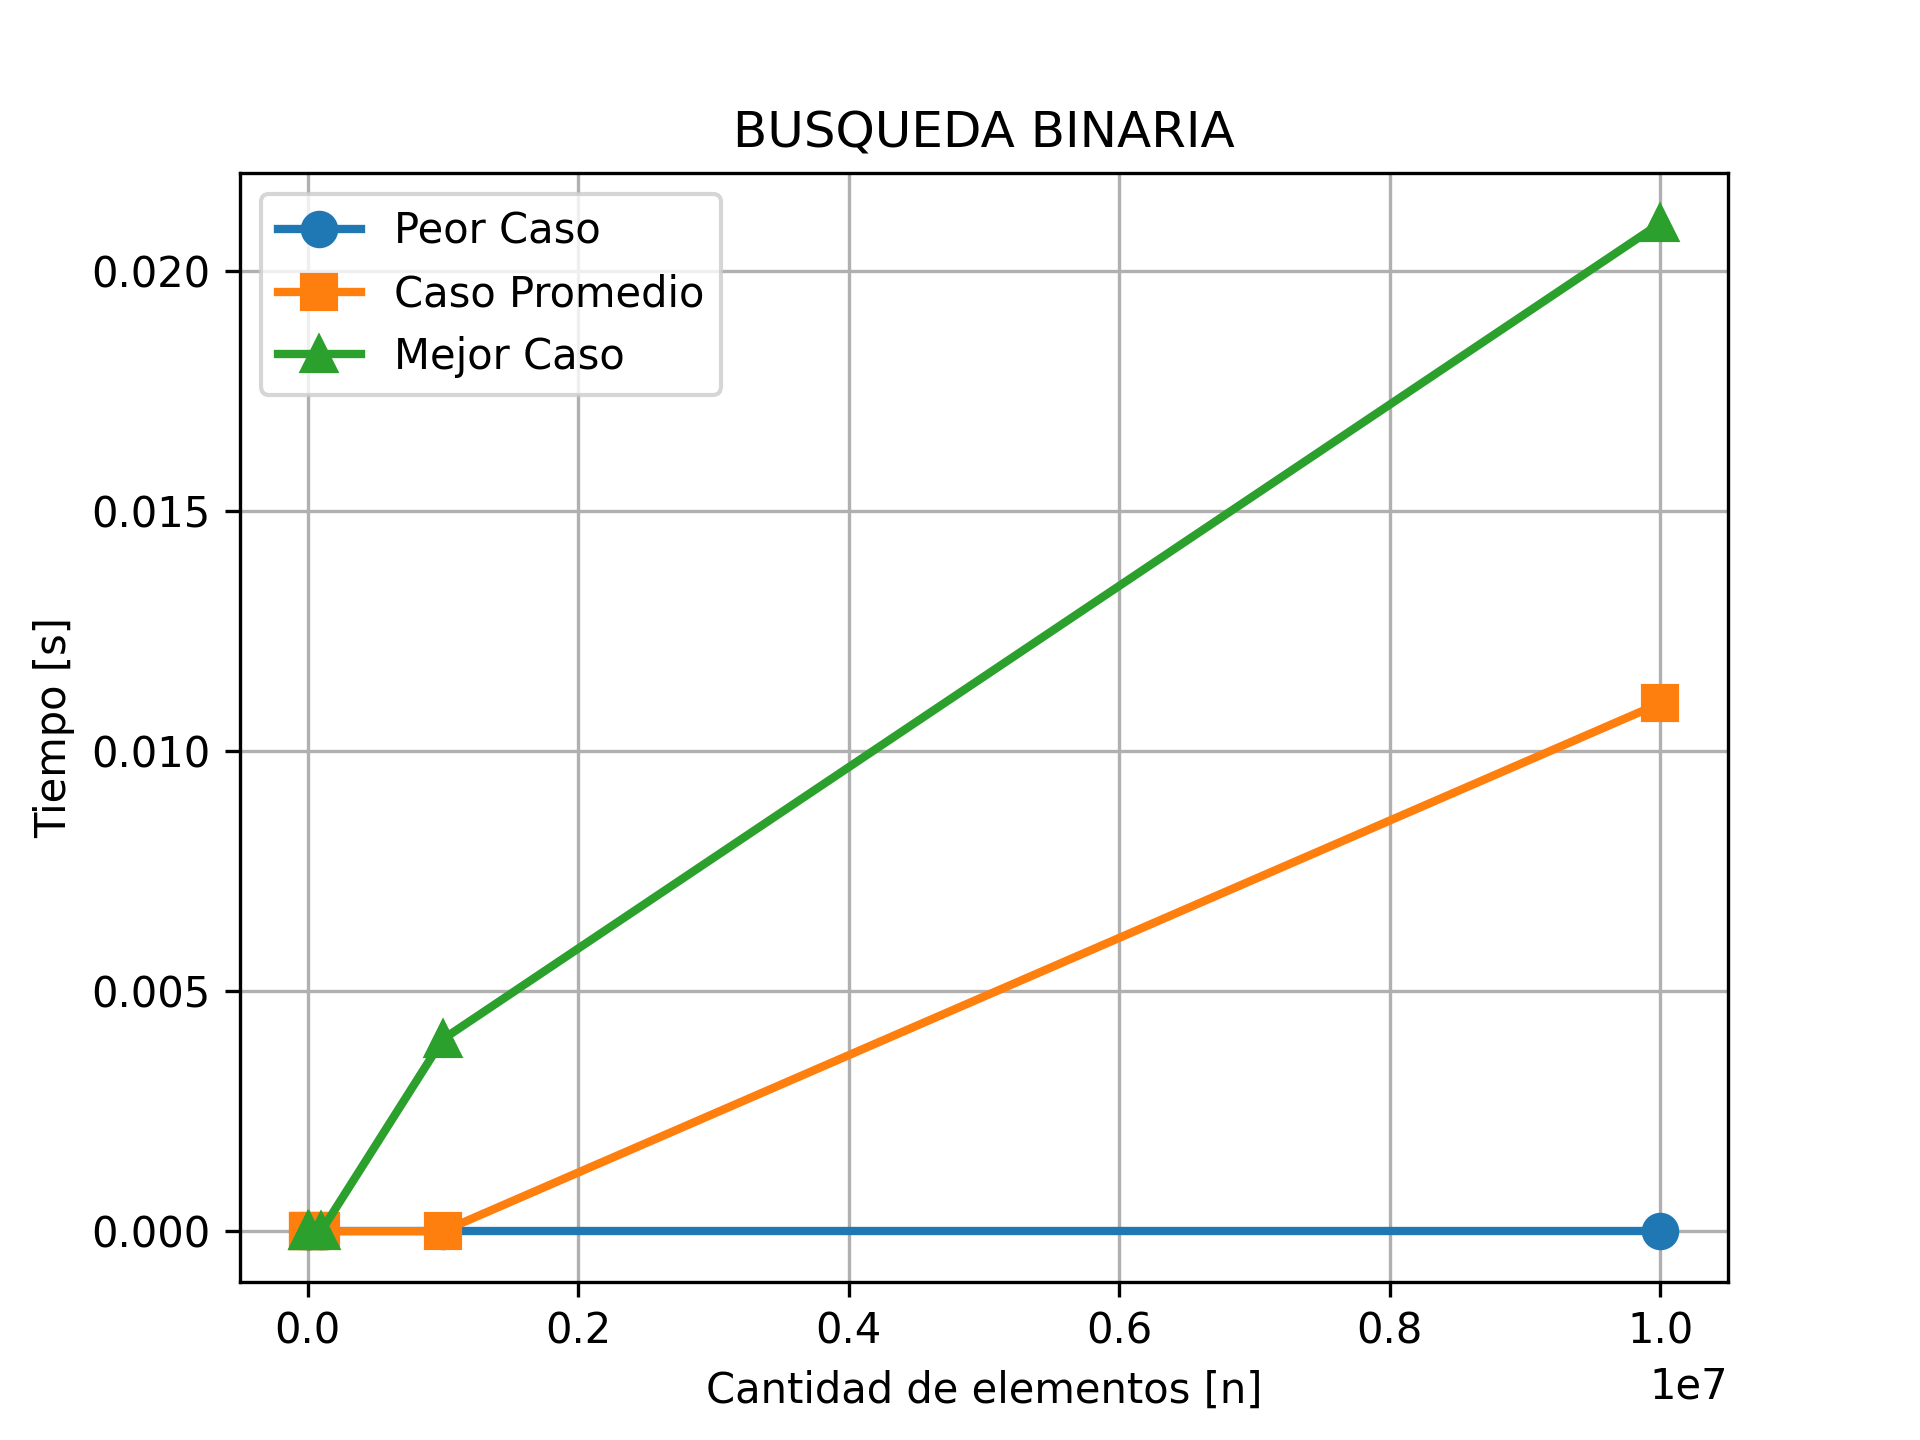
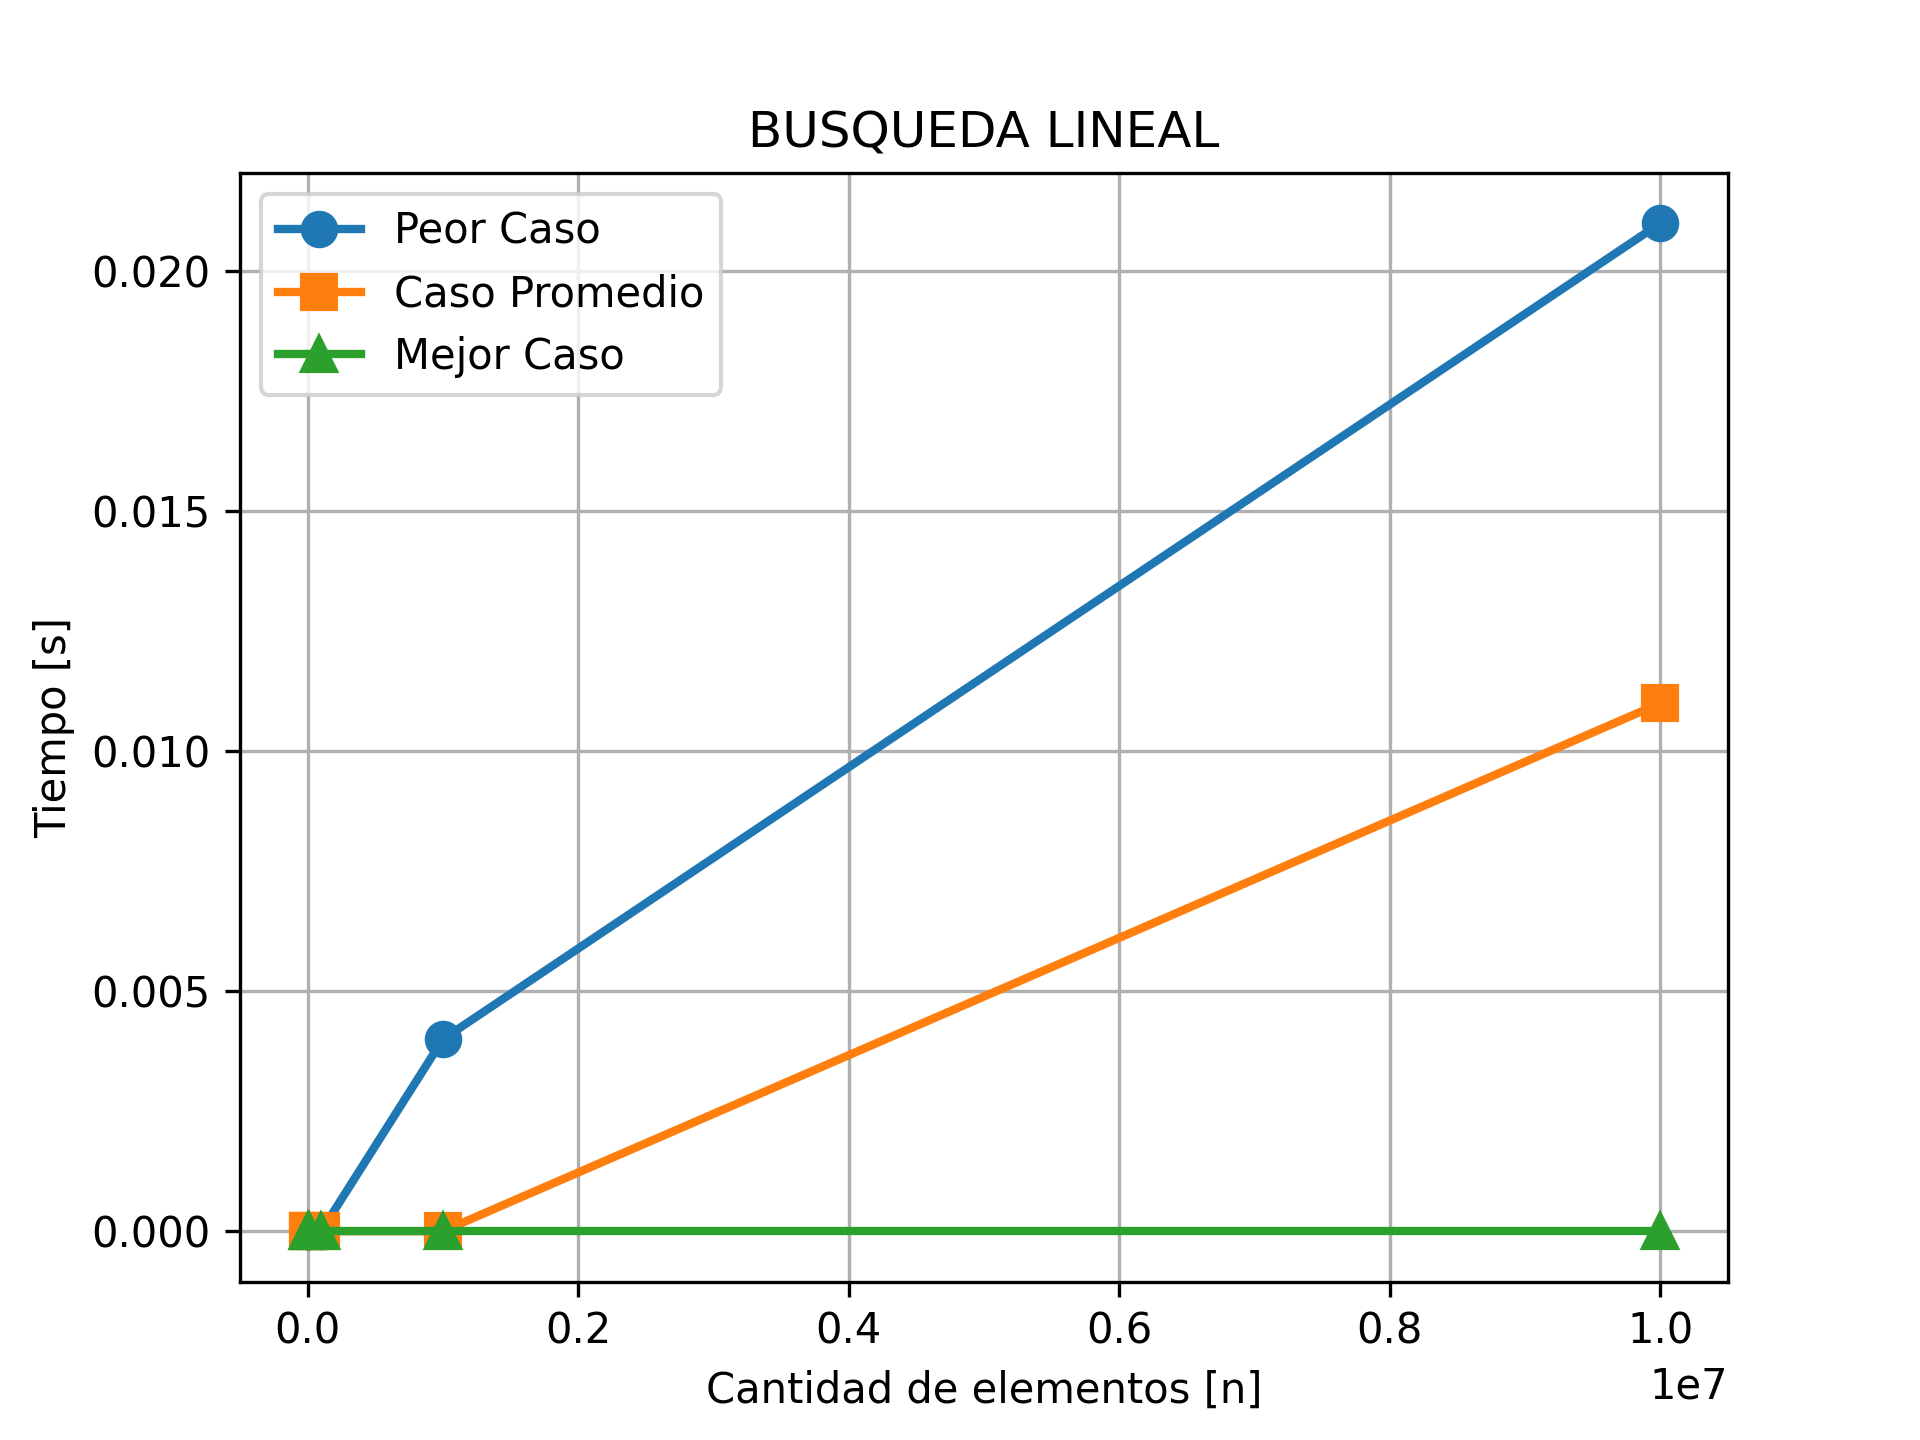
corregir grafica secuencial

diff --git a/PrimerParcial/Practica3/graficaComplejidades/graficar.py b/PrimerParcial/Practica3/graficaComplejidades/graficar.py
@@ -19,22 +19,22 @@ def guardar_grafica(ruta_guardado, nombre_archivo):
     print(f"Gráfica guardada en: {ruta_completa}")
 
 # Archivos txt con los datos
-binaria = 'binaria.txt' # secuencial
-# casoPromedio = 'casoPromedio.txt'
-secuencial = 'secuencial.txt' # binaria
+mejorCaso = 'mejorCaso.txt' # peorCaso
+casoPromedio = 'casoPromedio.txt'
+peorCaso = 'peorCaso.txt' # mejorCaso
 
 # Leer los datos de los archivos
-x_peor, y_peor = leer_datos(binaria)
-# x_promedio, y_promedio = leer_datos(casoPromedio)
-x_mejor, y_mejor = leer_datos(secuencial)
+x_peor, y_peor = leer_datos(peorCaso)
+x_promedio, y_promedio = leer_datos(casoPromedio)
+x_mejor, y_mejor = leer_datos(mejorCaso)
 
 # Graficar los datos con marcadores más visibles
-plt.plot(x_peor, y_peor, label='Binaria', marker='o', markersize=8, linestyle='-', linewidth=2)
-# plt.plot(x_promedio, y_promedio, label='Caso Promedio', marker='s', markersize=8, linestyle='-', linewidth=2)
-plt.plot(x_mejor, y_mejor, label='Secuencial', marker='^', markersize=8, linestyle='-', linewidth=2)
+plt.plot(x_peor, y_peor, label='Peor Caso', marker='o', markersize=8, linestyle='-', linewidth=2)
+plt.plot(x_promedio, y_promedio, label='Caso Promedio', marker='s', markersize=8, linestyle='-', linewidth=2)
+plt.plot(x_mejor, y_mejor, label='Mejor Caso', marker='^', markersize=8, linestyle='-', linewidth=2)
 
 # Personalización de la gráfica
-plt.title('PEOR CASO')
+plt.title('BUSQUEDA LINEAL')
 plt.xlabel('Cantidad de elementos [n]')
 plt.ylabel('Tiempo [s]')
 plt.legend()  # Mostrar leyendas
@@ -42,4 +42,4 @@ plt.grid(True)  # Mostrar la cuadrícula
 # plt.xscale('log')  # Escala logarítmica en el eje X si fuera necesario
 #vplt.show()
 
-guardar_grafica('graficas', "peorCaso")
+guardar_grafica('graficas', "busqueda-secuencial")
